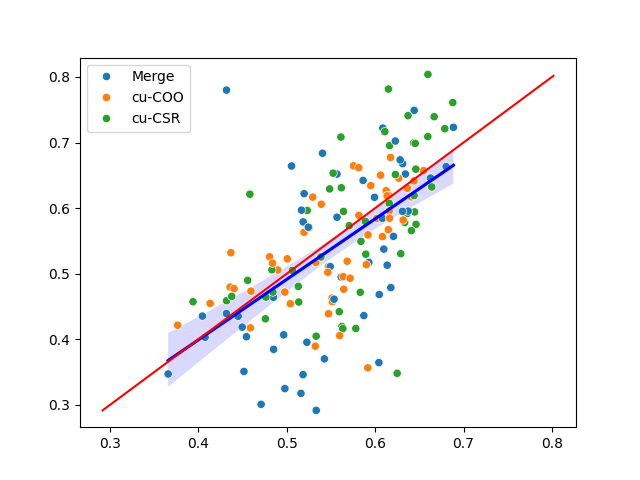
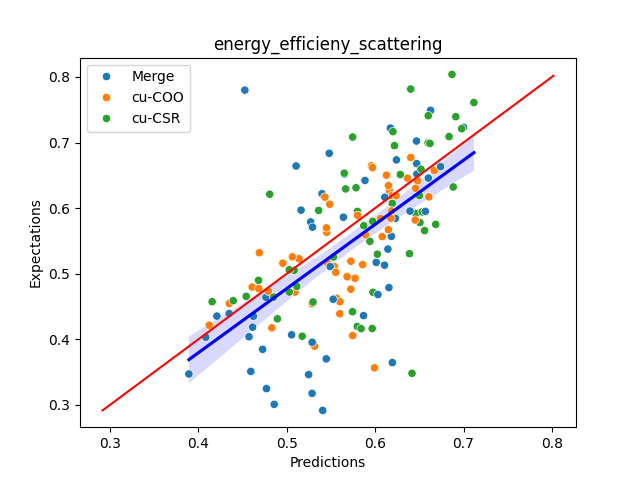
Labelled graphs

diff --git a/Performance_predictors/model_runners.py b/Performance_predictors/model_runners.py
@@ -185,6 +185,9 @@ def plot_prediction_dispersion(model:torch.nn.Module,
     sns.regplot(x=gflops_predictions, y=gflops_expectations, scatter=False, fit_reg=True, color="blue")
     sns.scatterplot(x=gflops_predictions, y=gflops_expectations, hue=implementations)
     plot = sns.lineplot(x=identity_gflops, y=identity_gflops, color="red")
+    plt.xlabel("Predictions")
+    plt.ylabel("Expectations")
+    plt.title("gflops_scattering")
     plot.get_figure().savefig("{}/gflops_scattering_{}.png".format(path, name))
 
     plt.clf()
@@ -192,5 +195,8 @@ def plot_prediction_dispersion(model:torch.nn.Module,
     sns.regplot(x=energy_efficiency_predictions, y=energy_efficiency_expectations, scatter=False, fit_reg=True, color="blue")
     sns.scatterplot(x=energy_efficiency_predictions, y=energy_efficiency_expectations, hue=implementations)
     plot = sns.lineplot(x=identity_energy_efficiency, y=identity_energy_efficiency, color="red")
+    plt.xlabel("Predictions")
+    plt.ylabel("Expectations")
+    plt.title("energy_efficieny_scattering")
     plot.get_figure().savefig("{}/energy_efficiency_scattering_{}.png".format(path, name))
     plt.clf()
